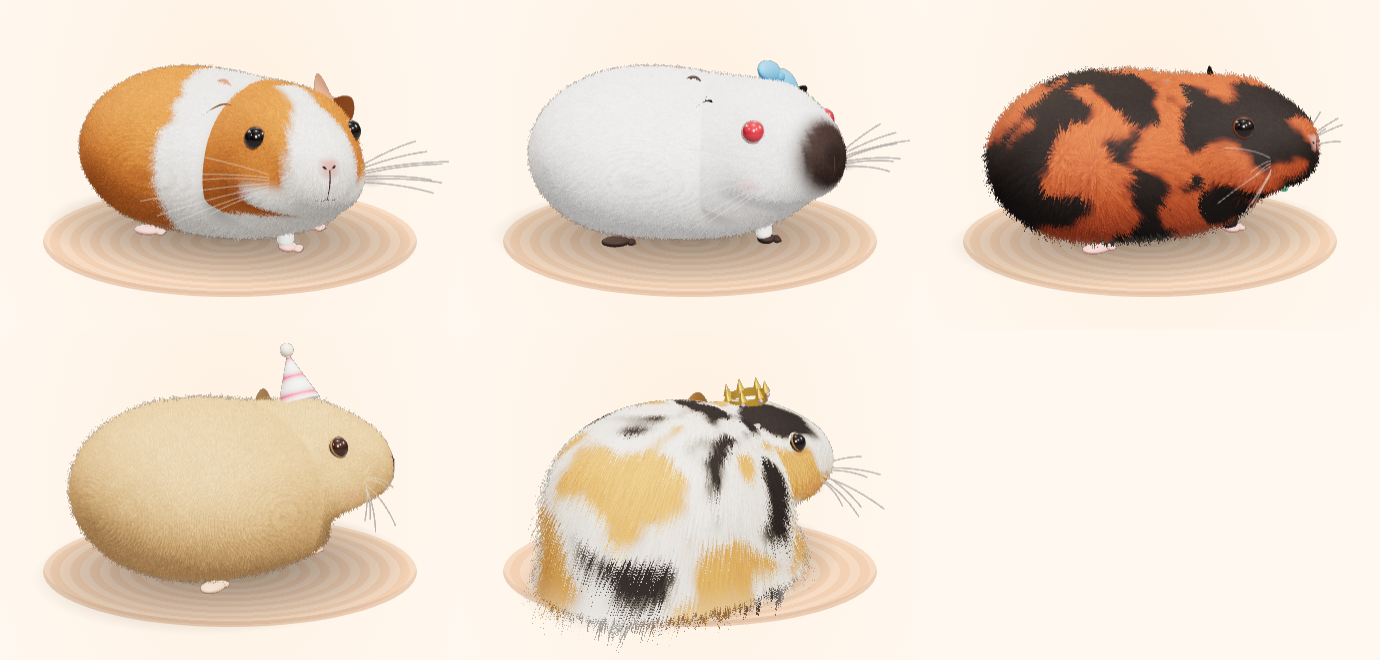
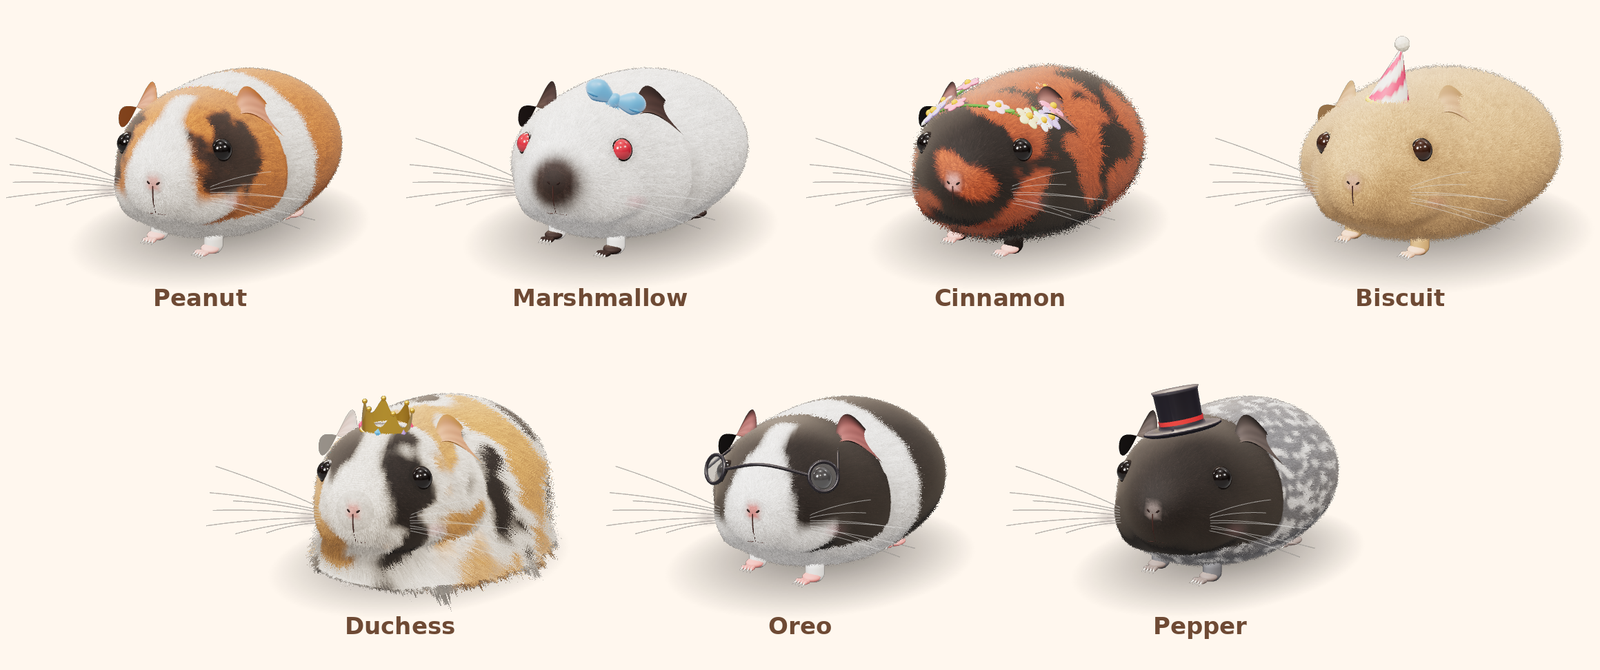
update read me

diff --git a/README.md b/README.md
@@ -55,8 +55,9 @@ On Mac, Firefox only exposes the window title, and that needs **Accessibility** 
 - **Colors:** main, second, and light fur; eyes; nose & paws. Pick from real guinea pig colors or any custom color
 - **Chonk and size sliders**
 - **Shuffle patches** to rearrange where the colors land
-- **Accessories:** bow, party hat, flower crown, bandana, glasses, top hat, crown (each with a color)
+- **Accessories:** bow, party hat, flower crown, glasses, top hat, crown (each with a color)
 - **Name** it, and use 7 presets or ✨ *Surprise me*
+- **My looks:** save outfits under a name, then equip or delete them anytime (also from the right-click menu → *Saved looks*)
 - **Behaviour toggles:** wander, sounds, nap when idle, always on top, start at login
 
 Changes show live on the desktop pet while you edit. Cancel reverts them.
